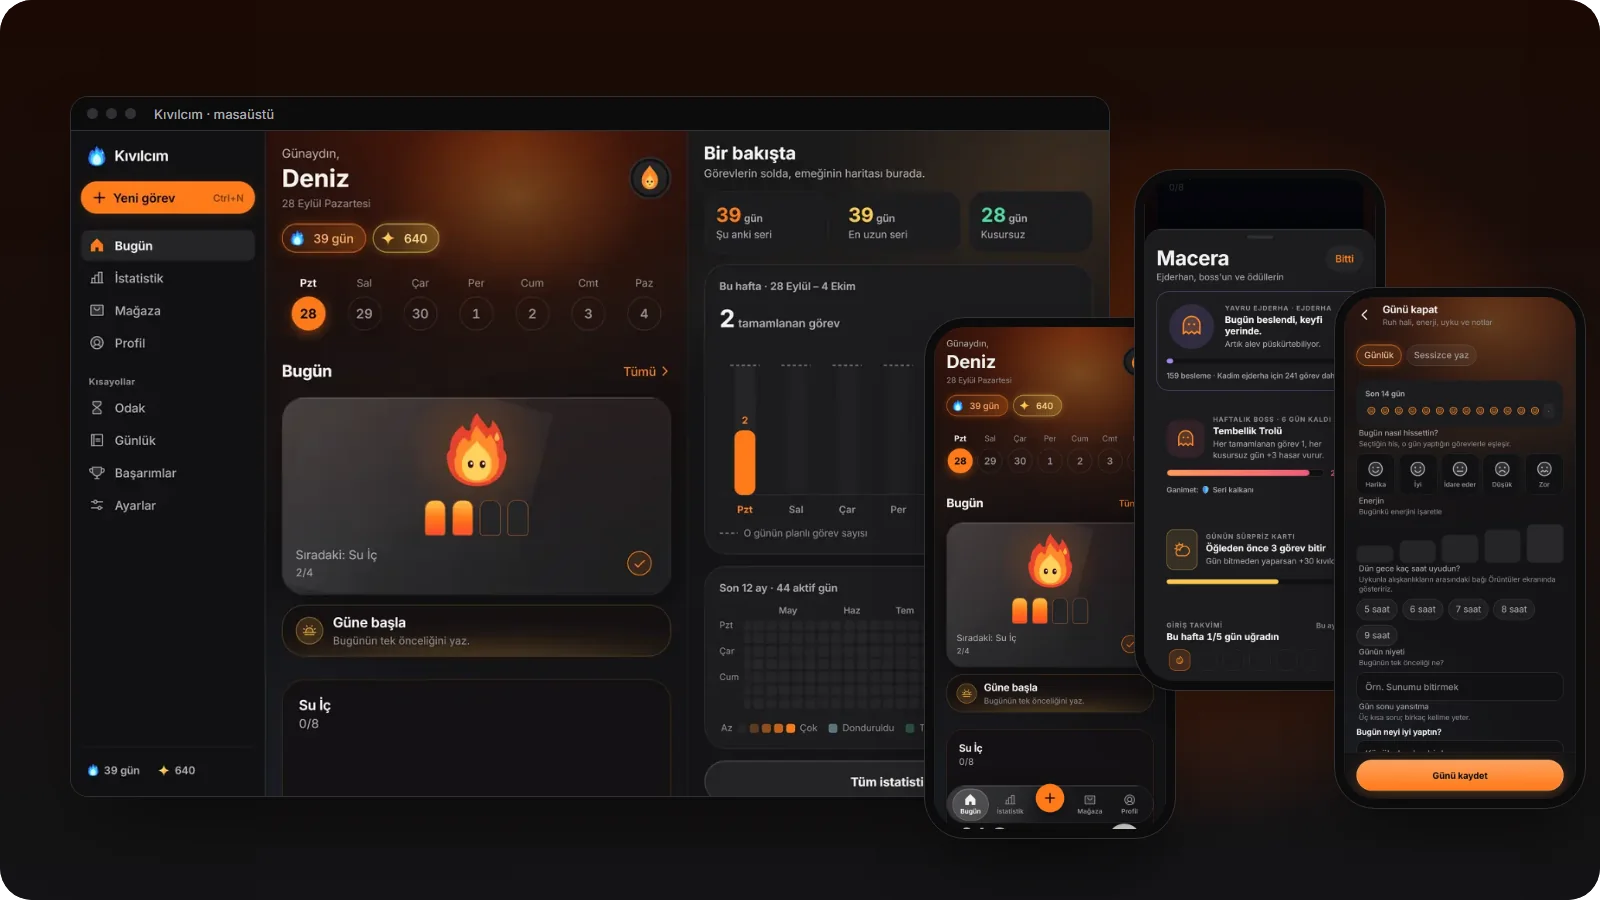
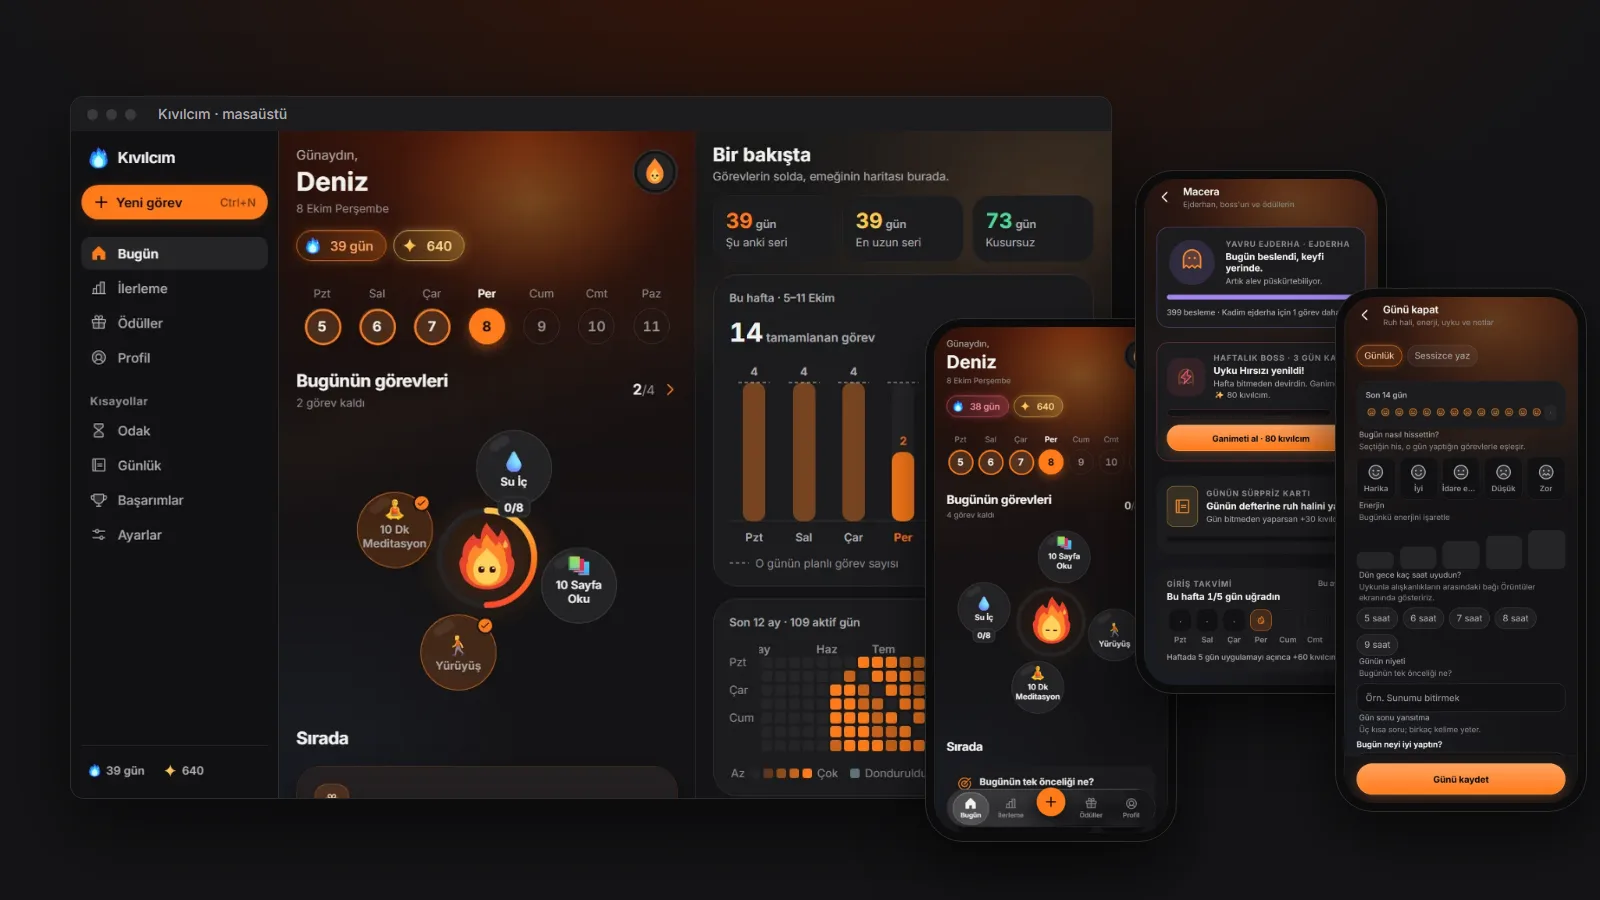
README görselleri koyu temaya sabit; 2.6 yörünge hero ve vitrini
GitHub mobil uygulaması koyu temada <picture> içinden açık sürümü gösterebiliyordu; görseller artık her yerde koyu.

Claude-Session: https://claude.ai/code/session_0112CpipLcymZXdyUAZme48Q

diff --git a/README.md b/README.md
@@ -1,24 +1,18 @@
 <div align="center">
 
-<a href="https://yigit2015.github.io/kivilcim-indir/"><picture>
-  <source media="(prefers-color-scheme: dark)" srcset="assets/hero-dark.svg">
-  <img src="assets/hero-light.svg" width="100%" alt="Kıvılcım: Küçük görevler, büyüyen bir alev. Ücretsiz, oyunlaştırılmış alışkanlık uygulaması.">
-</picture></a>
+<a href="https://yigit2015.github.io/kivilcim-indir/"><img src="assets/hero-dark.svg" width="100%" alt="Kıvılcım: Küçük görevler, büyüyen bir alev. Ücretsiz, oyunlaştırılmış alışkanlık uygulaması."></a>
 
 </div>
 
 Kıvılcım'ı yapıyorum: küçük görevleri alev alev bir seriye dönüştüren bir alışkanlık uygulaması. Hesap istemez, sunucusu yoktur; kayıtlar cihazda kalır. Windows, Mac, Linux ve Android'de çalışıyor; iPhone sürümü yolda.
 
-<a href="https://yigit2015.github.io/kivilcim-indir/#indir"><picture><source media="(prefers-color-scheme: dark)" srcset="assets/btn-indir-dark.png"><img src="assets/btn-indir-light.png" height="44" alt="Kıvılcım'ı indir"></picture></a>&nbsp;
-<a href="https://yigit2015.github.io/kivilcim-indir/uygulama/"><picture><source media="(prefers-color-scheme: dark)" srcset="assets/btn-web-dark.png"><img src="assets/btn-web-light.png" height="44" alt="Tarayıcıda dene"></picture></a>&nbsp;
+<a href="https://yigit2015.github.io/kivilcim-indir/#indir"><img src="assets/btn-indir-dark.png" height="44" alt="Kıvılcım'ı indir"></a>&nbsp;
+<a href="https://yigit2015.github.io/kivilcim-indir/uygulama/"><img src="assets/btn-web-dark.png" height="44" alt="Tarayıcıda dene"></a>&nbsp;
 <a href="https://github.com/yigit2015/kivilcim-indir/releases/latest"><img src="https://img.shields.io/github/v/release/yigit2015/kivilcim-indir?label=son%20s%C3%BCr%C3%BCm&color=FF7A1A&style=flat-square" height="20" alt="Son sürüm"></a>
 
 <br>
 
-<picture>
-  <source media="(prefers-color-scheme: dark)" srcset="assets/showcase-dark.webp">
-  <img src="assets/showcase-light.webp" width="100%" alt="Kıvılcım masaüstünde kenar çubuklu geniş düzenle, telefonda Bugün, Macera ve Günü kapat ekranlarıyla.">
-</picture>
+<img src="assets/showcase-dark.webp" width="100%" alt="Kıvılcım masaüstünde kenar çubuklu geniş düzenle, telefonda Bugün (görev yörüngesi), Macera ve Günü kapat ekranlarıyla.">
 
 ## Kıvılcım'ın kuralları
 
